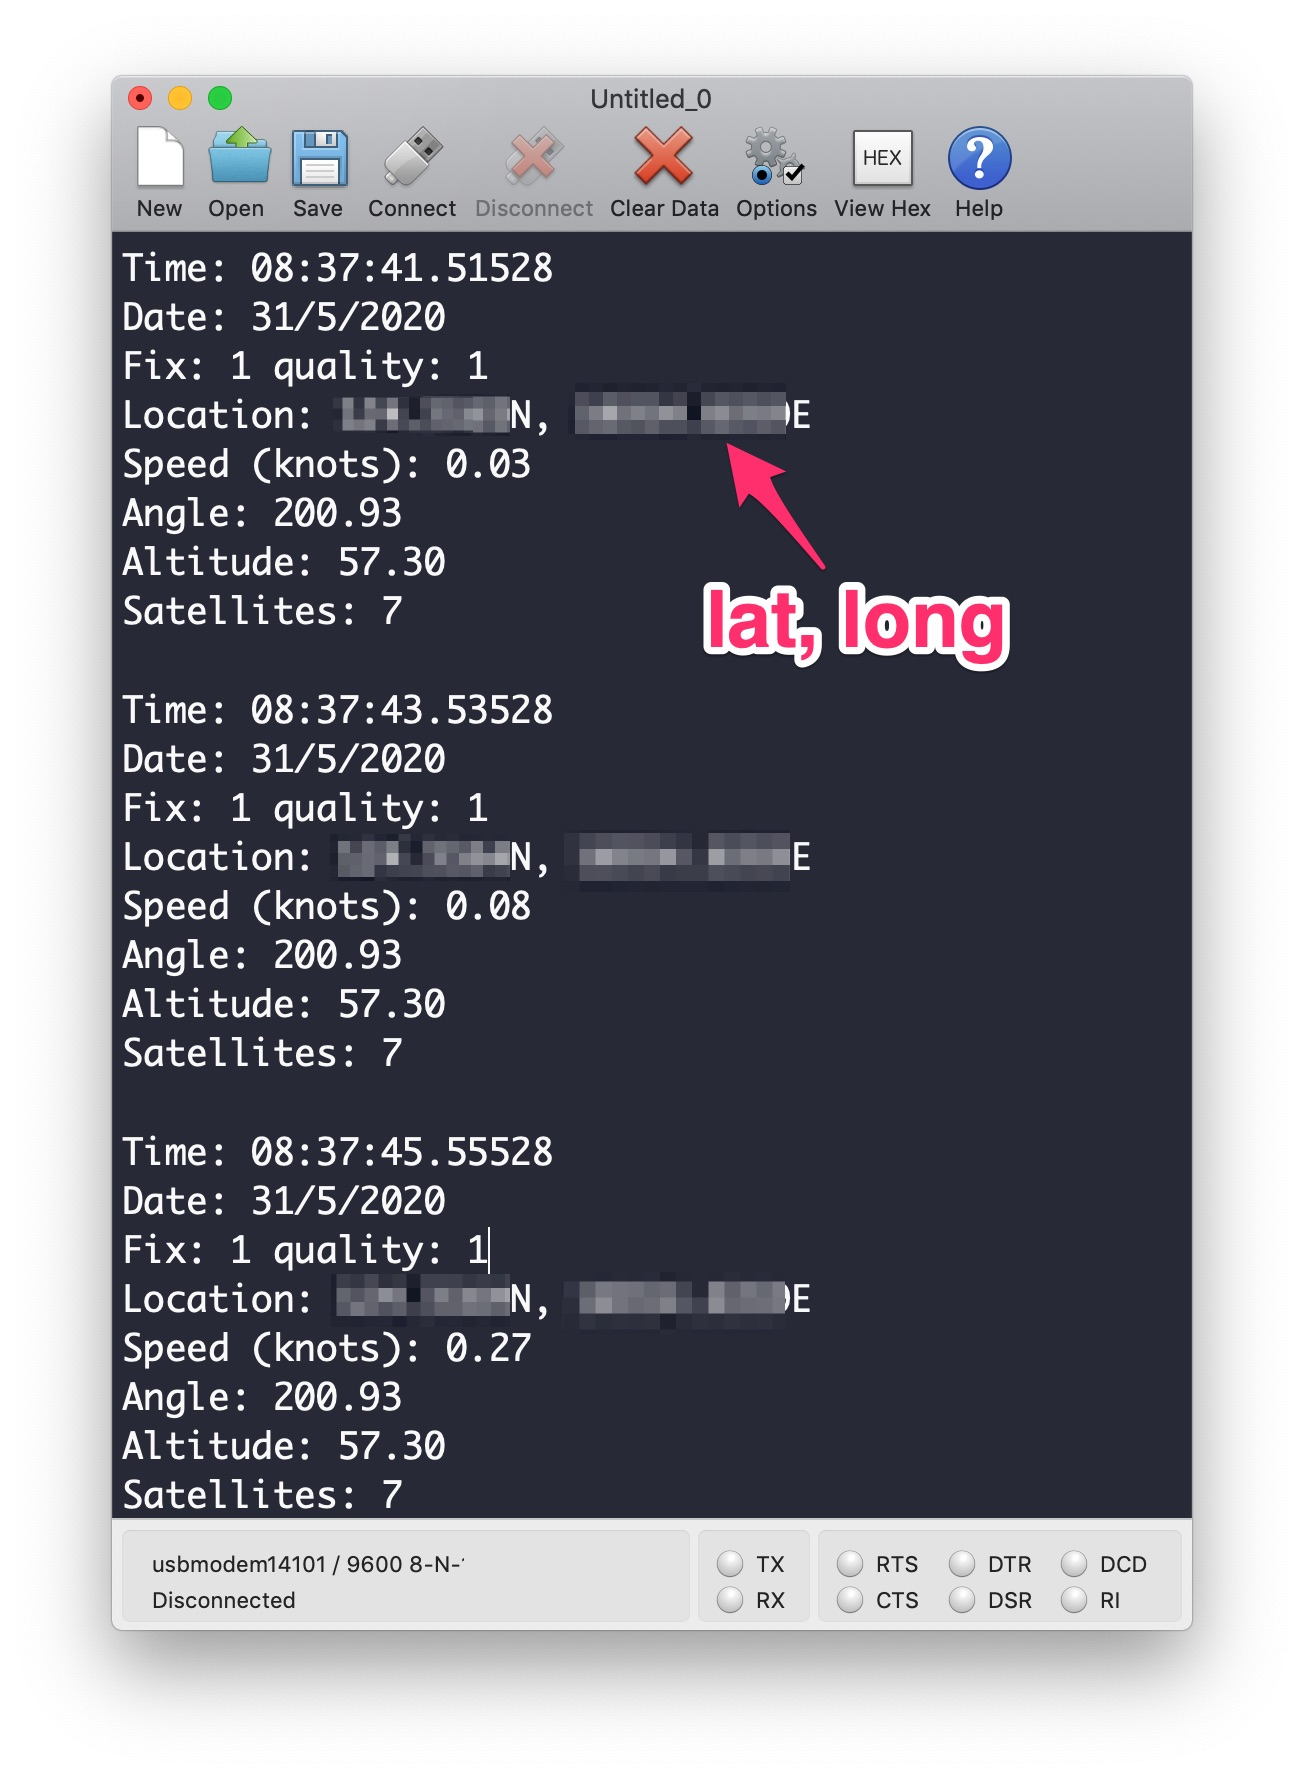
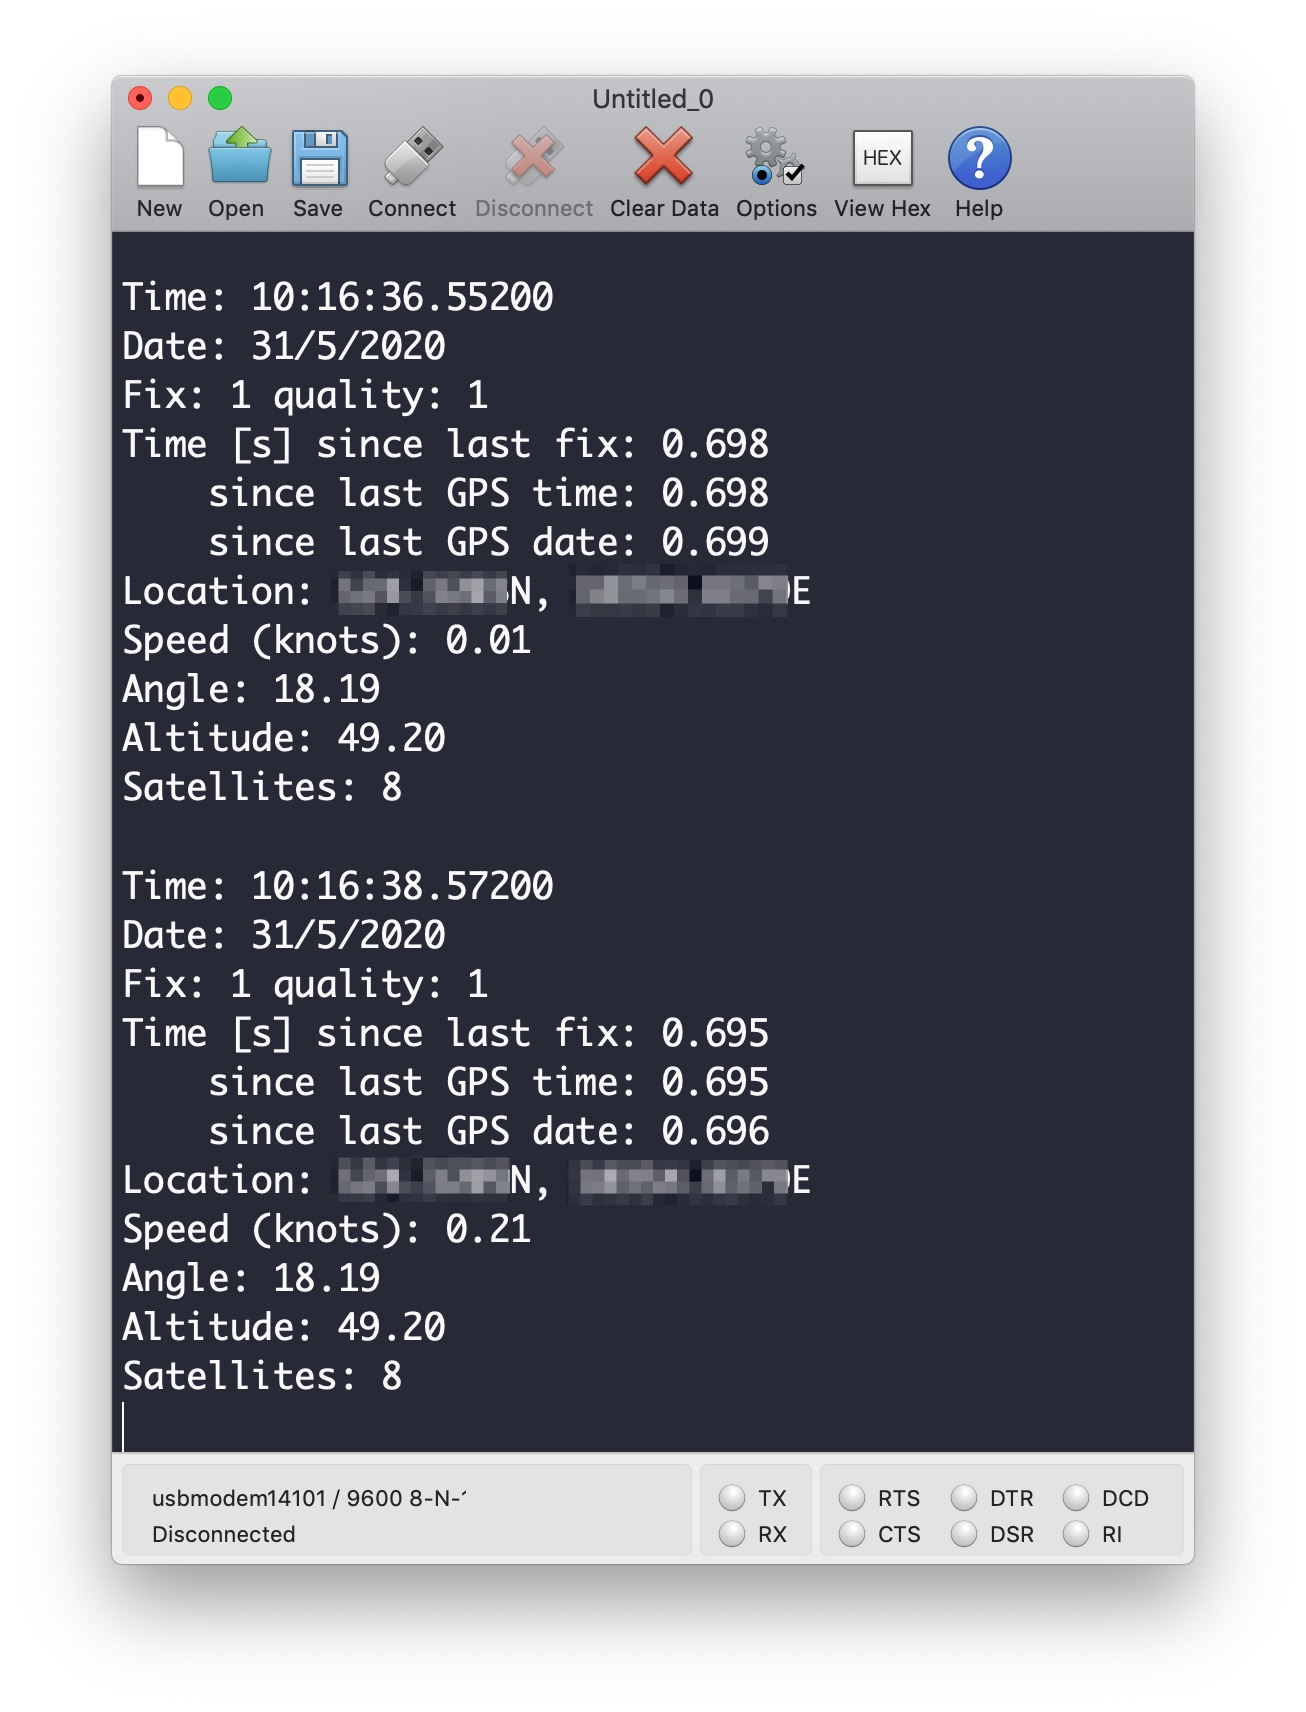
refactor: add timing data for parsing GPS

Changed region(s): [[0.092, 0.031, 0.9202, 0.9287]]

diff --git a/_tutorials/gps-pa1010d-m0-parsing.md b/_tutorials/gps-pa1010d-m0-parsing.md
@@ -15,6 +15,8 @@ references:
     url: https://github.com/adafruit/Adafruit_GPS
   - name: Adafruit GPS Hardware serial parsing
     url: https://github.com/adafruit/Adafruit_GPS/blob/master/examples/GPS_HardwareSerial_Parsing/GPS_HardwareSerial_Parsing.ino
+  - name: Adafruit GPD Hardware serial timing information
+    url: https://github.com/adafruit/Adafruit_GPS/blob/master/examples/GPS_HardwareSerial_Timing/GPS_HardwareSerial_Timing.ino
   - name: Lat long conversion from degrees to decimal
     url: https://www.latlong.net/degrees-minutes-seconds-to-decimal-degrees
 prerequisites:
